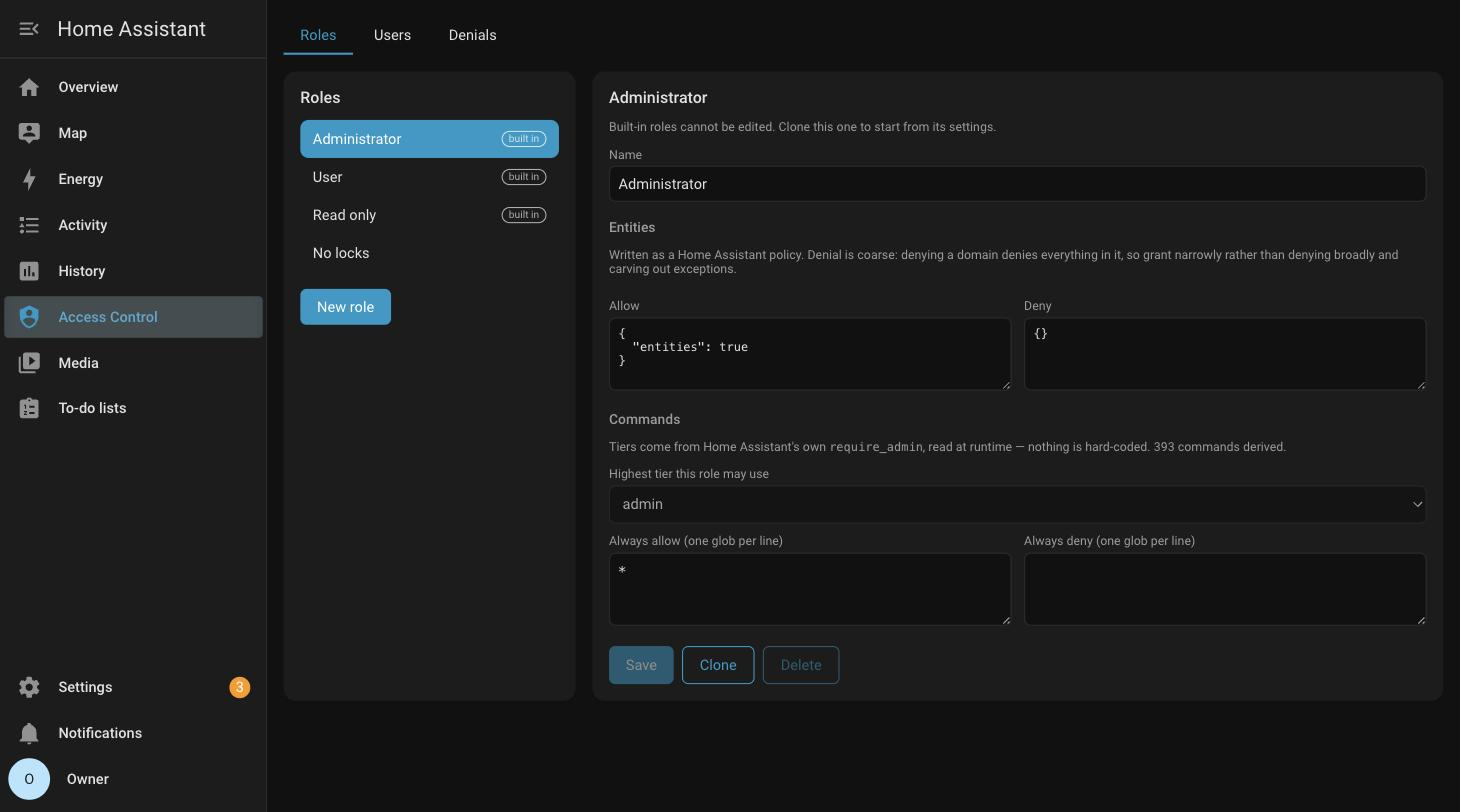
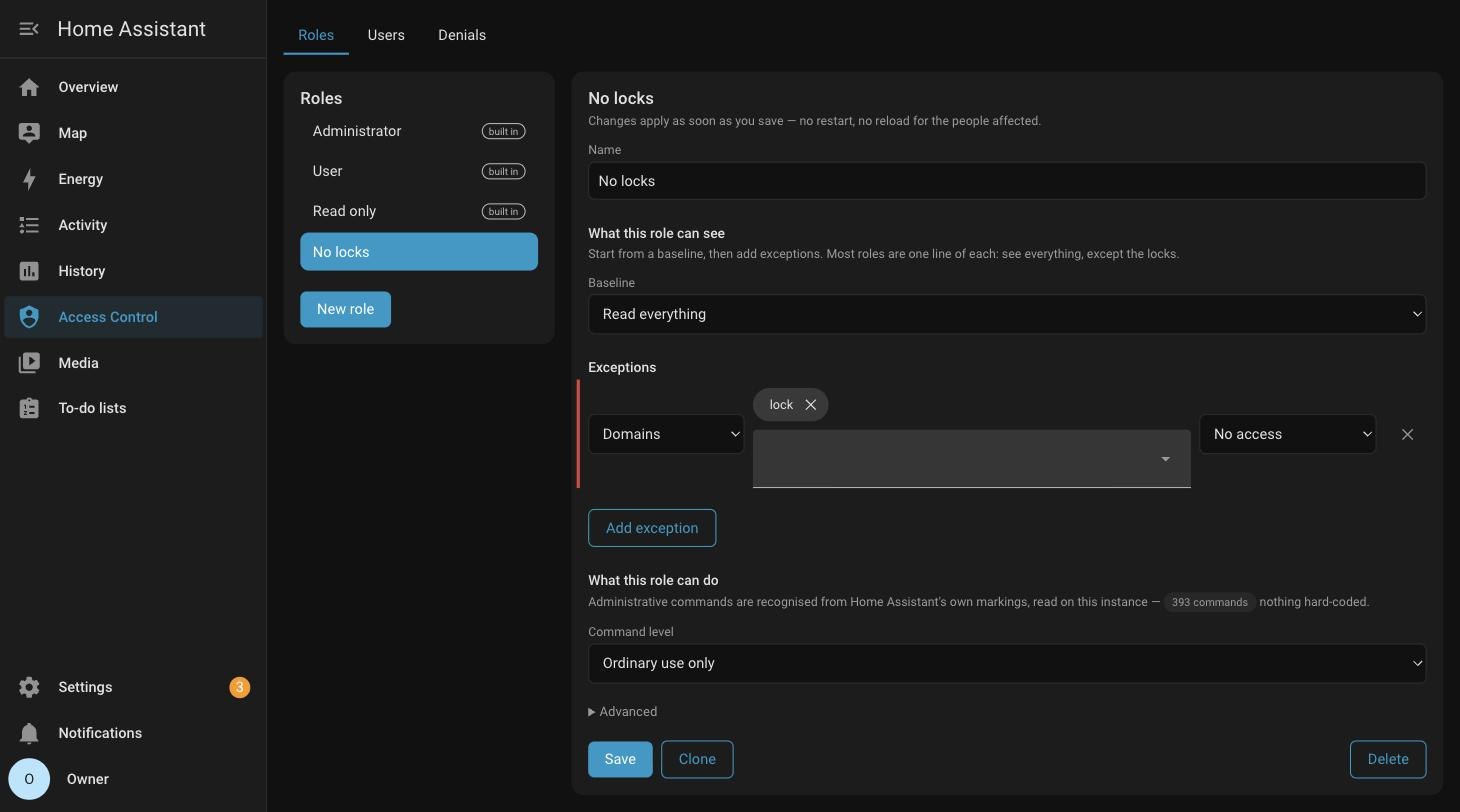
Rebuild the role editor around pickers instead of raw JSON
A role now reads the way people describe access out loud -- "see everything,
except the locks" -- as a baseline plus a list of exceptions. Each exception
picks a target with Home Assistant's own pickers: real area, entity, device,
label and floor selectors, with search and icons, and a domain list built from
the domains this instance actually has. Denials are marked in red. The raw
policy is still there under Advanced for anything the list cannot express.

Stored shape is unchanged, so this is a presentation layer over the same policy.
Every role that ships, including one carrying `entities: true`, round-trips
through the reader and writer without changing shape.

Two things that shape had to be handled carefully. `entities: true` is not the
same as read-and-control: it is what Home Assistant treats as unrestricted and
what lets the proxy skip filtering entirely, so it is its own baseline rather
than being folded into the one below it -- otherwise cloning Administrator
quietly cost that fast path. And user assignment uses checkboxes rather than a
single select, because a person can hold more than one role and a select would
have dropped the others on save.

Claude-Session: https://claude.ai/code/session_01NnbK5vZZkY4MaMfJFifmG8

diff --git a/custom_components/ha_rbac/frontend/ha-rbac-panel.js b/custom_components/ha_rbac/frontend/ha-rbac-panel.js
@@ -22,6 +22,10 @@ const BASE = [
   { value: "none", label: "Nothing by default" },
   { value: "read", label: "Read everything" },
   { value: "control", label: "Read and control everything" },
+  // Distinct from "control": this is the policy Home Assistant itself treats as
+  // unrestricted, and it lets the proxy skip filtering entirely. Collapsing it
+  // into "control" would quietly cost a clone of Administrator that fast path.
+  { value: "full", label: "Everything, unfiltered" },
 ];
 
 // Where each kind of exception lives in a stored policy.
@@ -141,15 +145,15 @@ function valueOf(access) {
 function readRules(role) {
   const allow = role.allow || {};
   const deny = role.deny || {};
-  const base = accessOf((allow.entities || {}).all);
+  const base =
+    allow.entities === true ? "full" : accessOf((allow.entities || {}).all);
   const rules = [];
 
   const collect = (policy, denying) => {
     for (const target of TARGETS) {
+      const entities = policy.entities === true ? {} : policy.entities || {};
       const bucket =
-        target.block === "entities"
-          ? (policy.entities || {})[target.value]
-          : policy[target.value];
+        target.block === "entities" ? entities[target.value] : policy[target.value];
       if (!bucket || typeof bucket !== "object") continue;
       // Group ids that share an access level so one row can hold several.
       const byAccess = {};
@@ -169,8 +173,25 @@ function readRules(role) {
 
 /** Write a base level and exception list back into a policy pair. */
 function writeRules(base, rules) {
-  const allow = { entities: {} };
   const deny = { entities: {} };
+  if (base === "full") {
+    // Nothing narrows an unrestricted baseline except a denial, so exceptions
+    // that grant are meaningless here and are dropped rather than half-applied.
+    const allow = { entities: true };
+    for (const rule of rules.filter((r) => r.access === "none")) {
+      const target = TARGETS.find((t) => t.value === rule.target);
+      if (!target || !rule.ids || !rule.ids.length) continue;
+      const holder =
+        target.block === "entities"
+          ? (deny.entities[target.value] ||= {})
+          : (deny[target.value] ||= {});
+      for (const id of rule.ids) holder[id] = true;
+    }
+    if (!Object.keys(deny.entities).length) delete deny.entities;
+    return { allow, deny };
+  }
+
+  const allow = { entities: {} };
   if (base !== "none") allow.entities.all = valueOf(base);
 
   for (const rule of rules) {

diff --git a/README.md b/README.md
@@ -42,7 +42,8 @@ that can't unlock the front door.
 ## What you get
 
 🎭 **Roles that actually mean something** — read, control, or nothing, per entity,
-per device, per area, per label, or per floor.
+per device, per area, per label, or per floor, chosen with the same pickers you
+use everywhere else in Home Assistant.
 
 🙈 **Hidden means hidden** — a restricted entity doesn't appear greyed out. It
 isn't in the dashboard, the search, the history, or the API. As far as that
@@ -72,11 +73,11 @@ no entities renamed. Uninstall and everything is exactly as it was.
 <tr>
 <td width="50%">
 <img src="screenshots/panel-roles.jpg" alt="The role editor">
-<p align="center"><em>Build a role. Three come built in, and you can clone any of them.</em></p>
+<p align="center"><em>"Read everything, except the locks." Pick a baseline, add exceptions.</em></p>
 </td>
 <td width="50%">
 <img src="screenshots/panel-denials.jpg" alt="The denials log">
-<p align="center"><em>When someone says "it's not working", look here first.</em></p>
+<p align="center"><em>When someone says "it stopped working", look here first.</em></p>
 </td>
 </tr>
 </table>
